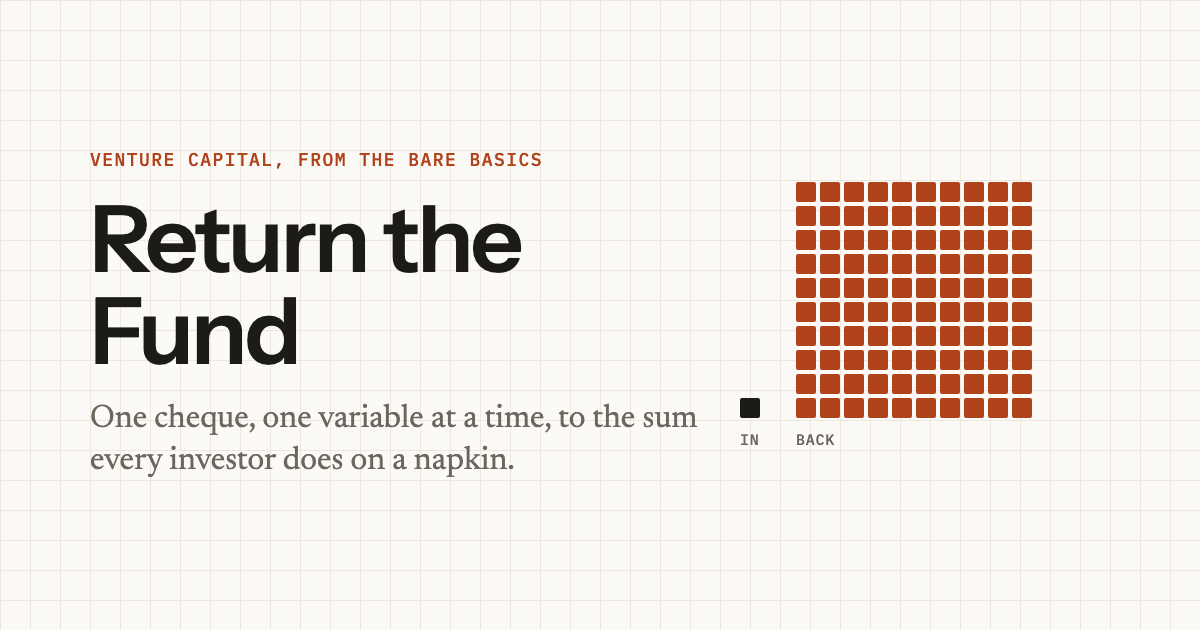
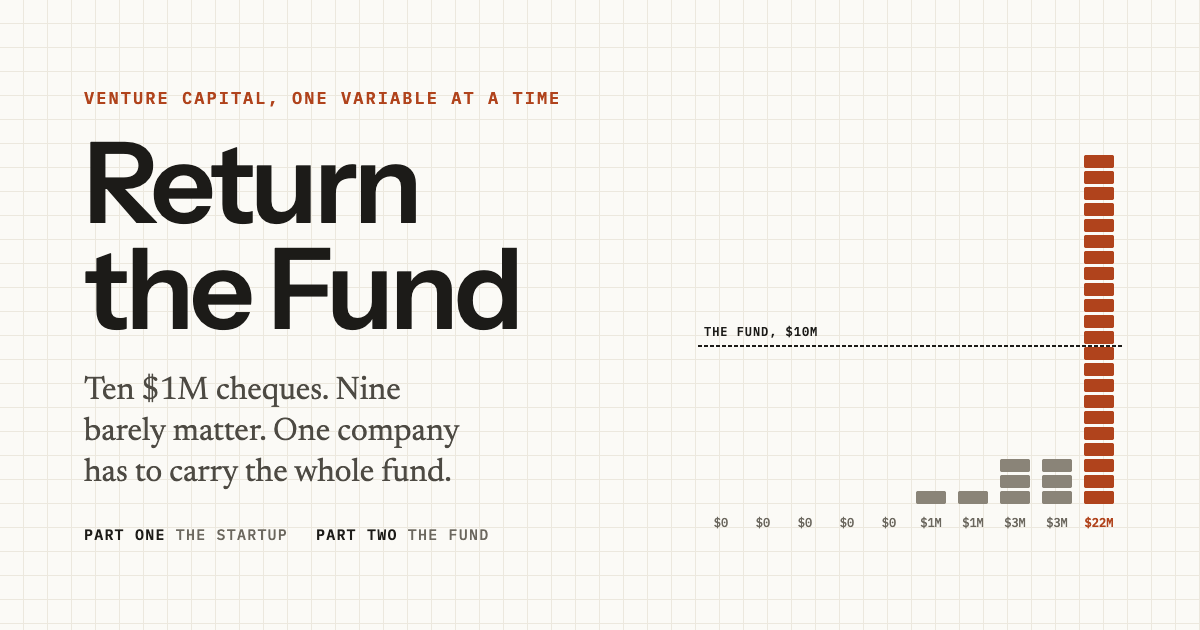
docs: launch README, link preview for both parts

diff --git a/index.html b/index.html
@@ -4,13 +4,20 @@
     <meta charset="UTF-8" />
     <meta name="viewport" content="width=device-width, initial-scale=1" />
     <title>Return the Fund</title>
-    <meta name="description" content="Venture capital from the bare basics: one variable at a time, from one cheque to the napkin sum." />
+    <meta name="description" content="Venture capital from the bare basics, one variable at a time. Part one: what a startup has to become. Part two: where a fund&#39;s money comes from." />
     <meta property="og:title" content="Return the Fund" />
-    <meta property="og:description" content="Venture capital from the bare basics: one variable at a time, from one cheque to the napkin sum." />
+    <meta property="og:description" content="Venture capital from the bare basics, one variable at a time. Part one: what a startup has to become. Part two: where a fund&#39;s money comes from." />
     <meta property="og:image" content="__SITE_URL__/og-image.png" />
+    <meta property="og:image:width" content="1200" />
+    <meta property="og:image:height" content="630" />
+    <meta property="og:image:alt" content="Ten $1M cheques drawn as notes: nine return little or nothing, one returns $22M and carries the $10M fund." />
     <meta property="og:url" content="__SITE_URL__/" />
     <meta property="og:type" content="website" />
+    <meta property="og:site_name" content="Return the Fund" />
     <meta name="twitter:card" content="summary_large_image" />
+    <meta name="twitter:title" content="Return the Fund" />
+    <meta name="twitter:description" content="Venture capital from the bare basics, one variable at a time. Part one: what a startup has to become. Part two: where a fund&#39;s money comes from." />
+    <meta name="twitter:image" content="__SITE_URL__/og-image.png" />
     <meta name="theme-color" content="#fbfaf6" />
     <link rel="icon" href="/favicon.svg" type="image/svg+xml" />
     <link rel="preconnect" href="https://fonts.googleapis.com" />

diff --git a/README.md b/README.md
@@ -1,35 +1,157 @@
 # Return the Fund
 
-Venture capital from the bare basics. A single-page explorable notebook that builds the investor's model one variable at a time, from one cheque to the sum every investor does on a napkin: **the sale a company needs = fund ÷ the share you'll own at the end.**
+Venture capital from the bare basics, one variable at a time.
 
-Seven models, each ending in one rule:
+**Live:** LIVE_URL
 
-1. One cheque: loss capped at the cheque, gain uncapped.
-2. Ten cheques: one company carries the fund.
-3. The napkin sum.
-4. Other investors arrive (dilution, pre/post-money).
-5. Follow on, or a new bet? (crossover = old price ÷ new price)
-6. Who gets paid first (1× non-participating preferences).
-7. Other investors set the price (hot deals, cold markets).
+![Ten $1M cheques drawn as notes: nine return little or nothing, one returns $22M and carries the $10M fund.](public/og-image.png)
 
-Then a napkin calculator.
+Return the Fund is an explorable explainer in two parts. Part one puts you in an investor's seat with a $10M fund and works out what one company has to become for that fund to matter. Part two turns around and asks where a $100M fund's money comes from, what the people who put it in expect back, and how long they wait to find out. Every number on the page can be counted, and every number shows the sum that made it.
+
+It's built on Scott Kupor's *Secrets of Sand Hill Road*, using Chain Bear's way of teaching Formula 1 strategy. It's a companion to *Half a Ship Sinks*: that piece makes you feel the risk, and this one lets you work it out.
+
+---
+
+## Why this exists
+
+I knew the words that matter in venture capital: ownership, dilution, follow-ons, preferences, the one winner. I knew them the way you know tyres and pit stops matter in F1. I could nod along, but I couldn't hold them all in my head as one model. Every explanation I found threw all the variables at me at once.
+
+Chain Bear's *Building an F1 Strategy from the Bare Basics* fixed that for F1. It starts with a race so simple you can count it, adds one thing at a time, and ends each step with a sum that turns into a rule. So the question for this project was: what if you did that for VC?
+
+## The method
+
+These rules held for the whole build, and every model on the page follows them.
+
+- **One new variable per model.** If a model needed two new ideas, it got split in two.
+- **Everything can be counted.** One note is $1M of money. One square is one share of a company. The charts are made of notes and squares, so you can recount any of them.
+- **Show the working.** No number appears without the sum that made it, for example `$1M ÷ 10% = $10M`.
+- **Numbers before jargon.** Pre-money, pro rata, carry, DPI and the rest show up as labels on things you've already built, never before.
+- **Unknowns are letters.** Small chips mark what's unknown, like Chain Bear's pit-stop "P": **E** for the sale, **F** for the fund, **V** for today's value, **h** and **s** for the odds, **R** for what a fund's investments return. The same chips sit on the sliders that set them.
+- **Each model ends in one short rule.**
+- **F1 is the method, never the look.** No cars, tracks or chequered flags.
+- **Nothing random.** No simulations or scores, and nothing is stored.
+
+## Part one: the startup side
+
+You have a $10M fund and write $1M cheques. One company, Orbit, is followed the whole way through.
+
+| # | Model | The one new thing | What it shows | Rule |
+|---|---|---|---|---|
+| 1 | One cheque | The sale, **E** | $1M buys 10 of Orbit's 100 squares. Your take is 10% × E: zero at worst, unlimited at best. | You can lose the cheque. What you can win has no ceiling. |
+| 2 | Ten cheques | A portfolio | Five fail, two give the money back, two triple. Without a winner the fund gets $8M back from $10M. The winner needs $2M to return the fund and $22M to triple it. | One company carries the fund. |
+| 3 | The sale you need | The fund, **F** | Flip Model 2 round: E = F ÷ your share. $10M at 10% needs $100M. A $100M fund needs $1B, which is where "can this be a billion-dollar company?" comes from. **V**, today's value, shows the growth needed. | Fund ÷ your share = the sale you need. |
+| 4 | Other investors arrive | Dilution | Alex (Series A) pays $5M for 25 new squares. Blake (Series B) pays $20M for 25 more. Your 10 squares never change, but your share falls from 10% to 8% to 6.67%, so the sale you need rises to $150M. | Divide by the share you'll have at the end. |
+| 5 | Follow on, or a new bet? | The odds, **h** then **s** | $1M buys 1.25 squares in Orbit's Series B or 10 squares in Nova, a new seed company. The crossover is h = 1/8, which is just old price ÷ new price. Then Orbit's own chance of survival, s, is added. | Follow on when a new bet's odds are worse than old price ÷ new price. |
+| 6 | Who gets paid first | Preferences | Investors can take their money back instead of their share. Model 6 compares what a square is worth in the sale with what each holder paid for it. Blake switches to taking a share at exactly $120M, the price Blake paid for the company. | Preferences decide the small sales. Big sales are all squares. |
+| 7 | Other investors set the price | Price | A hot deal at double the price halves your squares and doubles the sale you need. In a cold market, money held back buys more than twice as many squares. | Pay double, need double. Reserves go furthest when prices fall. |
+
+The page ends with a calculator for your own fund, share and rounds.
+
+## Part two: the fund
+
+Now you're the general partner (GP) of a $100M fund, raised from limited partners (LPs).
+
+| # | Model | The one new thing | What it shows |
+|---|---|---|---|
+| 1 | Other people's money | LPs | LPs put in $99M and you put in $1M. With no fees, whatever the fund returns is split 99 to 1. |
+| 2 | The fee | 2% a year | $2M a year for ten years is $20M, so only $80M gets invested. A toggle shows a simple step-down to 1% after year 5. |
+| 3 | Carry | 20% of the profit | LPs paid in $80M invested plus $20M of fees, and all $100M comes back to them before any carry. If the fund returns $300M, your carry is $40M, so your total pay is $20M of fees plus $40M of carry. |
+| 4 | What LPs need | A target | For LPs to make 3× net, the fund must return $100M + ($200M ÷ 0.8) = $350M. That means turning $80M into $350M, or one company selling for $3.5B. |
+| 5 | Time | Years | Money is called as it's needed: $16M invested plus the $2M fee each year for five years, then the fee alone. It comes back late. LPs are down $90M after year 5 and only above zero in year 8. That's the J-curve. A fee strip underneath fills in every single year. |
+| 6 | Carry taken too early | Clawback | Under deal-by-deal carry, an early $150M sale pays you $28M. If the rest of the fund disappoints, you owe some of it back. |
+| 7 | Paper and cash | Two scores | In year 4, cash back ÷ paid in (DPI) is 0, but counting paper value (TVPI) it's 1.33×. You raise your next fund on paper, and LPs judge you on cash. |
+
+The page ends with a fund calculator: fund size, fee, carry and target in, and out come the fees, the money invested, the return needed and the one-company sale that would deliver it, which links straight back to Part one.
+
+## How it got here
+
+The project took one long session between me and Claude (Claude Code). Most of what's good about it came from the review rounds, so here they are in order.
+
+**1. Design first.** Before any code there was a written design (`docs/superpowers/specs/`). It set the intent, the ladder of models with every number checked in Python, and the anti-goals: no F1 visuals, no jargon before numbers, no chart you can't recount.
+
+**2. First build.** Vite, React and TypeScript, with every sum in pure functions written test-first. Money and shares were both drawn as squares.
+
+**3. "The models need to be more explicit in the numbers."** My first review. What price did the Series A and B investors pay? Why does the formula read one way on top and the other way in the model? In the ten-company model, why does the chart show "??" when the number returned is right there? That led to the biggest rule of the build: **every number shows its working.** Prices per square appear in every round, and equations read in the same order as the story.
+
+**4. Pointed comments, model by model.** I opened the page as a claude.ai artifact and left comments directly on it. Here's what changed as a result:
+- **Money and shares looked the same.** Money became $1M *notes*, twice as wide as the squares, so you can't mistake one for the other.
+- **Sliders didn't show which letter they set.** The letter chips (E, F, h, s) moved onto the sliders.
+- **Break-even was hard to read.** It got clearer, and Model 3's $1M cheque now follows the fund size.
+- **Model 6 was hard to follow.** It was rebuilt around one comparison, what a square is worth versus what you paid, with each holder's squares and money counted out.
+- **Nobody could remember who was who.** The players got names: **Alex** (Series A), **Blake** (Series B), **Orbit** (the company) and **Nova** (the new bet). **V** became today's value, and Blake's switch at $120M is explained, not just shown.
+
+**5. The voice took three tries.**
+- The first draft was a first-person learner's diary, which felt too personal ("too obvious it's AI").
+- The rewrite as a plain textbook was correct but cold ("there's no love in the content, I can't post this on Twitter").
+- The final voice is a warm guide talking to *you*: "let's", a little wit, short paragraphs. The rules were cut to one short line each, and the book callouts were trimmed to a single credit per part.
+- "The napkin sum" was renamed "the sale you need" because "napkin" sounded off. A test now fails if "napkin" or "block" ever appears on the page.
+
+**6. Part two, on its own branch.** The fund side lives on `#part-two` of the same page, so it ships in one bundle and needs no server config. It was built on a separate branch so Part one could be shared while Part two was still in progress.
+
+**7. "Carry doesn't have fees built in, there's no talk about yearly fees and GP clawback."** This was a correction to the model itself, not just the copy:
+- Fees now go inside the carry sum, so LPs get back everything they paid in, fees included, before carry starts.
+- Fees are shown year by year, with an optional step-down.
+- A new model covers carry taken too early, and the clawback that follows.
+
+The follow-up "Time model needs a fee takeout part as well, cause that's every year irrespective" added the fee strip under the J-curve. The money calls were redone as $16M invested plus $2M of fee each year, which moved the whole curve. Every number was re-verified in Python.
+
+**8. Ideas I parked.** We talked about a bigger-fund model, a Fund I → II → III model, and a model of the fundraise itself. I decided to let it be. Two parts is the story.
+
+**9. Content review.** A final read of both parts against their own numbers. One real clash: a "$150M sale in year 6" didn't match the Model 5 fund. It's now a separate example. A few overclaims came out ("a coin flip", "a common step-down"). Every figure in the text was checked against its model.
+
+**10. Code review.** A separate reviewer read Part two cold. The fixes:
+- A false subtraction shown below $100M.
+- Calculator lines that didn't follow from their own rounded numbers. They now chain, with a test that checks 240 settings.
+- A scroll side effect in the wrong place.
+
+## Decisions Claude made
+
+These weren't discussed; they're Claude's calls, written down so they can be revisited.
+
+- **Stack:** Vite 7, React 19, TypeScript, CSS modules, Vitest and Testing Library, plus Vercel Analytics. It's a static site.
+- **Look:** a graph-paper notebook. Warm off-white paper, a faint grid, Newsreader for prose, IBM Plex Mono for numbers, Instrument Sans for labels. Each player keeps one colour everywhere: you (rust), founders (warm grey), Alex and LPs (blue), Blake (green).
+- **Maths:** all of it lives in pure, tested functions in `src/model/`, and the components only draw what those return. Every number in the design docs is pinned by a test.
+- **Deal terms:** preferences are 1× and non-participating, and all investors stand equal in line. That's a simplification, and the page says so.
+- **Routing:** `#part-two` is a hash, not a path, so the same build works on Vercel and inside a claude.ai artifact.
+- **Phones:** every model is checked at 375px with no sideways scroll.
 
 ## Run it
 
 ```bash
 npm install
-npm run dev      # http://localhost:5173
+npm run dev      # http://localhost:5173 (Part two at /#part-two)
 npm test         # every number on the page is pinned by a test
 npm run build    # static site in dist/
 ```
 
+`npx vite build --mode artifact` builds a copy without Vercel Analytics, for packing into a single HTML file.
+
 ## Deploy
 
-Vercel: import the repo, framework "Vite", no settings needed. Link previews use `VERCEL_PROJECT_PRODUCTION_URL` automatically; elsewhere set `VITE_SITE_URL` to the site's origin.
+On Vercel, import the repo and choose the Vite framework preset. No other settings are needed. Link previews build absolute URLs from `VERCEL_PROJECT_PRODUCTION_URL` automatically. Anywhere else, set `VITE_SITE_URL` to the site's origin.
 
 ## Where things live
 
-- `src/model/` — all the maths, pure and tested (squares, rounds, napkin, follow-on, payout waterfall).
-- `src/ui/` — squares, equations with unknown-chips, sliders.
-- `src/models/` — one component per section of the page.
-- `docs/superpowers/` — the design and the build plan.
+```
+src/model/     the maths, pure and tested (company, portfolio, follow-on, waterfall, fund)
+src/ui/        notes and squares, equations with letter chips, sliders, sections
+src/models/    Part one, one component per model
+src/part2/     Part two, one component per model
+docs/superpowers/specs/   the two designs, including the revision after review
+docs/superpowers/plans/   the two build plans
+public/og-image.png       the link preview (1200 × 630)
+```
+
+## If you're building on this
+
+- Keep the method: one new variable per model, and every number shows its working.
+- Write the maths first, as a pure function with a test, and only then draw it.
+- Never write "block" or "napkin" on the page; tests enforce both. Money is notes, shares are squares.
+- Keep the voice warm, second person and short. Each rule is one line.
+- Credit Kupor once per part, plus the source list. Use F1 for the method only.
+- Check new work at 375px wide.
+
+## Sources
+
+- Scott Kupor, *Secrets of Sand Hill Road* (2019): the deal shapes and fund terms, simplified.
+- Chain Bear, *Building an F1 Strategy from the Bare Basics*: the method.
